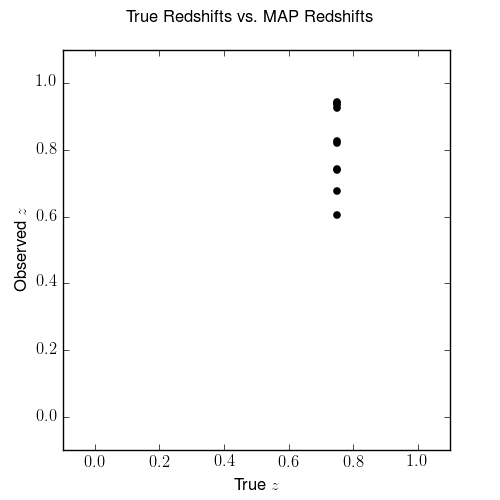
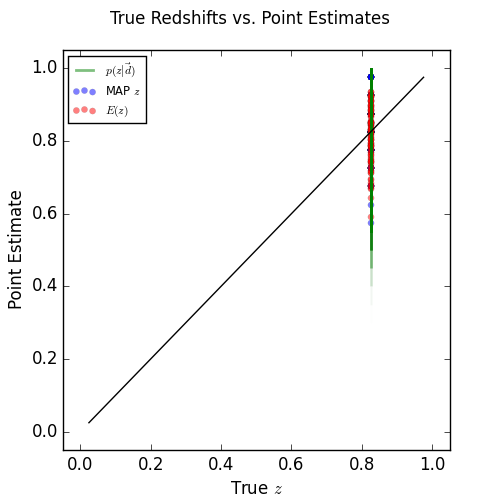
updated some figures

diff --git a/nz/paper/maindoc.tex b/nz/paper/maindoc.tex
@@ -257,7 +257,7 @@ p^{0}(z_{k'}) &=& \sum_{c=1}^{5}\bar{z}_{k'}C_{c}\int_{z_{k'}}^{z_{k'+1}} \mathc
 
 \begin{figure}
 \label{fig:physPz}
-\includegraphics[width=0.5\textwidth]{null/physPz.png}
+\includegraphics[width=0.5\textwidth]{physPz.png}
 \caption{The underlying $p(z)$ is a sum of Gaussians.  Here it is shown for the case of $K'=25$ bins from $z_{0}=0$ to $z_{K'}=1$}
 \end{figure}
 
@@ -425,7 +425,7 @@ It is desirable to compare the result of this method to what would have been obt
 \exp[\theta_{k}]\Delta_{k} &=& \sum_{j=1}^{J}\ p(B_{k}|\vec{d}_{j},\vec{\theta}^{0})
 \end{eqnarray}
 
-The second method, hereafter referred to as point estimation, converts the individual galaxy posteriors $p(B_{k}|\vec{d}_{j},\vec{\theta}^{0})$ into delta functions at the redshift bin of maximum posterior probability according to Eq. \ref{eq:map}, or at the redshift bin corresponding to the expected value of Eq. \ref{eq:expval}, before applying Eq. \ref{eq:stack}.  These two methods have been compared to one another by \citet{hil11} and \citet{ben12}.
+The second method, hereafter referred to as point estimation, converts the individual galaxy posteriors $p(B_{k}|\vec{d}_{j},\vec{\theta}^{0})$ into delta functions at the redshift bin of maximum a posteriori (MAP) probability according to Eq. \ref{eq:map}, or at the redshift bin corresponding to the expected value of Eq. \ref{eq:expval}, before applying Eq. \ref{eq:stack}.  These two methods have been compared to one another by \citet{hil11} and \citet{ben12}.
 
 \begin{eqnarray}
 \label{eq:map}
@@ -445,11 +445,11 @@ It is also valuable to verify that the posterior is maximized for the true $N(z)
 
 Beyond visual inspection of samples, we calculate summary statistics to quantitatively compare different estimators' appropriateness for the data.  Three goodness of fit measures of parameter samples $\vec{\theta}^{i}$  have been considered here.  
 
-The likelihood ratio may be calculated for a sample $\vec{\theta}^{i}$ as in Eq. \ref{eq:llr}.  Lower values of $A$ indicate a closer fit between the estimator and the true value; higher values of $A$ indicate dissonance between the true value and the estimator.  The log posterior probabilities of Sec. \ref{sec:probs} are used to obtain the log likelihoods via Eq. \ref{eq:logpost} and the sample values themselves are used to calculate the prior probability term according to Eq. \ref{eq:llr-how}.
+The likelihood ratio comparing the sampler to competing methods may be calculated for a sample $\vec{\theta}^{i}$ as in Eq. \ref{eq:llr}.  Values of $A$ greater than 0 indicate the sampler fits the data better than the competing method.  The log posterior probabilities of Sec. \ref{sec:probs} are used to obtain the log likelihoods via Eq. \ref{eq:logpost} and the sample values themselves are used to calculate the prior probability term according to Eq. \ref{eq:llr-how}.
 
 \begin{eqnarray}
 \label{eq:llr}
-A(\vec{\theta}^{i}) &=& -2\ln[\tilde{p}(\{\vec{d}_{j}\}_{J}|\tilde{\vec{\theta}})]+2\ln[\tilde{p}(\{\vec{d}_{j}\}_{J}|\vec{\theta}^{i})]
+A(\vec{\theta}^{i}) &=& -2\ln[\tilde{p}(\{\vec{d}_{j}\}_{J}|\vec{\theta}_{test})]+2\ln[\tilde{p}(\{\vec{d}_{j}\}_{J}|\vec{\theta}^{i})]
 \end{eqnarray}
 
 \begin{eqnarray}
@@ -472,7 +472,7 @@ The code was tested on several simulated datasets.  The fiducial experiment of S
 In order to simulate data in the realistic case, we select set a true, physically motivated redshift probability distribution $p^{0}(z|\vec{\theta})$, where $p(z|\vec{\theta})$ corresponds to $\exp[\vec{\theta}]$ for $J=1$.  The instance of $p^{0}(z)$ here is given by Eq. \ref{eq:truepz}, where the constant $C_{c}$ indicates the relative amplitude of the Gaussian component centered at $z_{c}$ with variance $\sigma_{c}^{2}$.  %The linear function is evaluated at the centers of the bins $\bar{z}_{k}=(z_{k+1}-z_{k})/2$ and is included to ensure that $\lim_{z\to0}N(z)=0$.  
 The construction of this probability density is illustrated in Fig. \ref{fig:physPz}. 
 
-The number of galaxies in the survey $J$ is taken as a random draw from a Poisson distribution centered at $J'=100$.  Taking $p^{0}(z_{k})$ as the probability that galaxy $j$ has a true redshift within bin $B_{k}$, we draw true redshift bins $\{B_{j}\}_{J}$ for all $J$ galaxies in the survey.  The resulting $J_{k}$ define the true value of the parameters $\vec{\tilde{\theta}}$ according to Eq. \ref{eq:sums}.   Fig. \ref{fig:realtrueNz} shows the true value of $N(z)$ for the fiducial case.
+As in Sec. \ref{sec:theta}, the number of galaxies in the survey $J$ is taken as a random draw from a Poisson distribution centered at $J'=100$.  Taking $p^{0}(z_{k})$ as the probability that galaxy $j$ has a true redshift within bin $B_{k}$, we draw true redshift bins $\{B_{j}\}_{J}$ for all $J$ galaxies in the survey.  The resulting $J_{k}$ define the true value of the parameters $\vec{\tilde{\theta}}$ according to Eq. \ref{eq:sums}.   Fig. \ref{fig:nulltrueNz} shows the true value of $N(z)$ for the fiducial case.
 
 \begin{eqnarray}
 \label{eq:sums}
@@ -481,11 +481,11 @@ The number of galaxies in the survey $J$ is taken as a random draw from a Poisso
 
 \begin{figure}
 \includegraphics[width=0.5\textwidth]{null/trueNz.png}
-\caption{The true value of $N(z)$ in the case of galaxies drawn from the probability distribution of Fig. \ref{fig:physpz}.}
-\label{fig:realtrueNz}
+\caption{The true value of $N(z)$ in the case of galaxies drawn from the probability distribution of Fig. \ref{fig:physPz}.}
+\label{fig:nulltrueNz}
 \end{figure}
 
-True redshifts $z^{0}_{j}$ are taken as draws from a uniform distribution within bin $B_{j}$.  The mean redshift of the Gaussian defining the individual posterior is plotted against the true redshift in Fig. \ref{fig:realcat}.  We test the realistic case with the same mock data generation procedure as in Sec. \ref{sec:fake}; samples of some zPDFs used are shown in Fig. \ref{fig:realpzs}.
+True redshifts $z^{0}_{j}$ are taken as draws from a uniform distribution within bin $B_{j}$.  The interim prior (discussed in Sec. \ref{sec:d}) used in the fiducial case is a flat $N(z)$ normalized to $J$ galaxies.  The expected and MAP values of redshift of the Gaussian defining the individual posterior, as well as the probability distributions themselves, are plotted against the true redshift in Fig. \ref{fig:realcat}.  The mock data generation procedure of Sec. \ref{sec:fake} is used in this test; samples of some zPDFs used are shown in Fig. \ref{fig:nullpzs}.
 
 \begin{figure}
 \includegraphics[width=0.5\textwidth]{null/truevmap.png}
@@ -496,7 +496,7 @@ True redshifts $z^{0}_{j}$ are taken as draws from a uniform distribution within
 \begin{figure}
 \includegraphics[width=0.5\textwidth]{null/samplepzs.png}
 \caption{Unimodal, noiseless zPDFs are used in this test.}
-\label{fig:realpzs}
+\label{fig:nullpzs}
 \end{figure}
 
 We choose an interim prior equal to a multivariate normal distribution with mean satisfying $\vec{\theta}'$ and covariance $\textul{\Sigma}$ given by Eq. \ref{eq:covmat}.  The mean chosen here is that of a flat distribution for the expected number of galaxies in the survey $J'$.  The constants $q$, $a$, and $e$ are small numbers chosen to permit draws from the distribution in question to reproduce shapes similar to that of the true parameters $\vec{\tilde{\theta}}$.  Samples from this prior are shown in Fig. \ref{fig:realprior}.  The calculation is initialized with $20$ walkers each with a value chosen from a Gaussian distribution around a sample of the prior.  The initial values of the walkers are shown in Fig. \ref{fig:realival}.
@@ -549,7 +549,9 @@ The sampler performs well according to the diagnostics discussed in Sec. \ref{se
 \subsection{Noisy zPDFs}
 \label{sec:noisy}
 
-In this test, we aim to simulate more realistic zPDFs by modifying the procedure of Sec. \ref{sec:d} to introduce imprecision that increases with true redshift.  Here, the zPDFs are still Gaussians but with variances $\delta'_{j}$ that are themselves drawn from a Gaussian of mean $\delta_{j}$ and variance $\delta_{j}^{2}$, transforming Eq. \ref{zshift-how} into Eq. \ref{eq:znoise-how} and Eq. \ref{eq:zspread} into Eq. \ref{eq:znoise}.  
+In this test, we aim to simulate more realistic zPDFs by modifying the procedure of Sec. \ref{sec:d} to introduce imprecision that increases with true redshift.  
+
+The true redshift distribution is identical to that of \ref{sec:null} (Fig. \ref{fig:nulltrueNz}), as is the method for assigning true redshifts to galaxies.  The zPDFs are still Gaussians but with variances $\delta'_{j}$ that are themselves drawn from a Gaussian of mean $\delta_{j}$ and variance $\delta_{j}^{2}$, transforming Eq. \ref{zshift-how} into Eq. \ref{eq:znoise-how} and Eq. \ref{eq:zspread} into Eq. \ref{eq:znoise}.  Fig. \ref{fig:noisycat} shows the MAP and expected values of redshift, as well as the zPDFs, as a function of the true redshifts.  Fig. \ref{fig:samplepzs} shows a few random zPDFs generated by this procedure.
 
 \begin{eqnarray}
 \label{eq:znoise-how}
@@ -561,13 +563,51 @@ In this test, we aim to simulate more realistic zPDFs by modifying the procedure
 p(z_{j}|z'_{j}) &=& \mathcal{N}(z'_{j},\delta'_{j})
 \end{eqnarray}
 
+\begin{figure}
+\includegraphics[width=0.5\textwidth]{sigma/truevmap.png}
+\caption{This plot shows the relationship between the true redshift shared by all galaxies in this survey and the redshift at which the posterior is maximized for each galaxy.}
+\label{fig:noisycat}
+\end{figure}
+
+\begin{figure}
+\includegraphics[width=0.5\textwidth]{sigma/samplepzs.png}
+\caption{Unimodal, noisy zPDFs are used in this test.  Noise is introduced in the form of variances that are Gaussian random variables rather than fixed values tied to the true redshift.}
+\label{fig:noisypzs}
+\end{figure}
+
+The sampler is initialized as in Sec. \ref{sec:null}.
+
+%\begin{figure}
+%\includegraphics[width=0.5\textwidth]{sigma/times.png}
+%\caption{The autocorrelation times are low, indicating fast convergence of the sampler over all parameters.}
+%\label{fig:noisyacor}
+%\end{figure}
+%
+%\begin{figure}
+%\includegraphics[width=0.5\textwidth]{sigma/fracs.png}
+%\caption{The acceptance fractions are reasonable and decrease after the burn-in period.}
+%\label{fig:noisyfrac}
+%\end{figure}
+%
+%\begin{figure}
+%\includegraphics[width=0.5\textwidth]{sigma/probs.png}
+%\caption{This plot shows the log probabilities of walkers as a function of iteration number for a number of iterations equal to twice the burn-in period.  One can see that the log posterior probabilities are much greater for the samples than for the alternative methods.}
+%\label{fig:noisyprob}
+%\end{figure}
+%
+%\begin{figure}
+%\includegraphics[width=0.5\textwidth]{sigma/samps.png}
+%\caption{The results of the simulation may be seen here.  The three statistics considered indicate a different ordering of performance of the estimators.}
+%\label{fig:noisyparam}
+%\end{figure}
+
 \clearpage
 \subsection{Multimodal zPDFs}
 \label{sec:multi}
 
-In this test, we aim to simulate more realistic zPDFs by modifying the procedure of Sec. \ref{sec:d} to introduce inaccuracy that causes catastrophic photo-z errors.  Here, the zPDFs are sums of Gaussians of the form of those tested in Sec. \ref{sec:noisy}.  
+In this test, we aim to simulate more realistic zPDFs by modifying the procedure of Sec. \ref{sec:d} to introduce inaccuracy that causes catastrophic photo-z errors.  Catastrophic photo-z errors arise from a degeneracy in the space of galaxy SEDs and redshifts, wherein a galaxy of one type at one redshift has photometry indistinguishable from a galaxy of another type at another redshift.  To simulate this case, multimodal zPDFs will be considered.
 
-Each galaxy is first assigned a number $R_{j}$ of Gaussian elements to be summed, chosen randomly from $1,\dots,K$ where $K$ is the dimensionality of $\vec{\theta}$.  The true redshift of each galaxy $z_{j}^{0}$ is transformed to $R_{j}$ shifted redshifts $z^{r_{j}}_{j}$ for $r_{j}=1,\dots,R_{j}$, transforming Eq. \ref{eq:zshift} into Eq. \ref{eq:zmany-each}.  The standard deviations of the Gaussian components follows Eq. \ref{eq:zmany-how}, analogous to Eq. \ref{eq:znoise-how}.  Thus the zPDFs take the form of Eq. \ref{eq:zmany}.
+The true $N(z)$ is generated the same way as in Sec. \ref{sec:null} (Fig. \ref{fig:nulltrueNz}).  However, the zPDFs are sums of Gaussians of the form of those tested in Sec. \ref{sec:noisy}.  Each galaxy is first assigned a number $R_{j}$ of Gaussian elements to be summed, chosen randomly from $1,\dots,K$ where $K$ is the dimensionality of $\vec{\theta}$.  The true redshift of each galaxy $z_{j}^{0}$ is transformed to $R_{j}$ shifted redshifts $z^{r_{j}}_{j}$ for $r_{j}=1,\dots,R_{j}$, transforming Eq. \ref{eq:zshift} into Eq. \ref{eq:zmany-each}.  The standard deviations of the Gaussian components follows Eq. \ref{eq:zmany-how}, analogous to Eq. \ref{eq:znoise-how}.  Thus the zPDFs take the form of Eq. \ref{eq:zmany}.  Fig. \ref{fig:multicat} shows the MAP and expected values of redshift as well as the zPDFs as a function of the true redshift.  Some examples of the multimodal zPDFs are shown in Fig. \ref{fig:multipzs}.
 
 \begin{eqnarray}
 \label{eq:zmany-each}
@@ -584,23 +624,51 @@ z^{r_{j}}_{j} &\sim& \mathcal{N}(z_{j}^{0},\delta_{j})
 p(z_{j}|\{z^{r_{j}}_{j}\}_{R_{j}}) &=& \sum_{r_{j}=0}^{R_{j}}\ \mathcal{N}(z^{r_{j}}_{j},\delta^{r_{j}}_{j})
 \end{eqnarray}
 
+\begin{figure}
+\includegraphics[width=0.5\textwidth]{multi/truevmap.png}
+\caption{This plot shows the relationship between the true redshift shared by all galaxies in this survey and the redshift at which the posterior is maximized for each galaxy.}
+\label{fig:multicat}
+\end{figure}
+
+\begin{figure}
+\includegraphics[width=0.5\textwidth]{multi/samplepzs.png}
+\caption{Multimodal, noisy zPDFs are used in this test.  Noise is introduced in the form of variances that are Gaussian random variables rather than fixed values tied to the true redshift.}
+\label{fig:multipzs}
+\end{figure}
+
+The sampler is initialized as in Sec. \ref{sec:null}.
+
 %\begin{figure}
-%%\includegraphics[width=0.5\textwidth]{truevmap-multi.png}
-%\caption{This plot shows the relationship between the true redshift shared by all galaxies in this survey and the redshift at which the posterior is maximized for each galaxy.}
-%\label{fig:multicat}
+%\includegraphics[width=0.5\textwidth]{multi/times.png}
+%\caption{The autocorrelation times are low, indicating fast convergence of the sampler over all parameters.}
+%\label{fig:multiacor}
 %\end{figure}
 %
 %\begin{figure}
-%%\includegraphics[width=0.5\textwidth]{samplepzs-multi.png}
-%\caption{Multimodal noiseless zPDFs are used in this test.}
-%\label{fig:multipzs}
+%\includegraphics[width=0.5\textwidth]{multi/fracs.png}
+%\caption{The acceptance fractions are reasonable and decrease after the burn-in period.}
+%\label{fig:multifrac}
+%\end{figure}
+%
+%\begin{figure}
+%\includegraphics[width=0.5\textwidth]{multi/probs.png}
+%\caption{This plot shows the log probabilities of walkers as a function of iteration number for a number of iterations equal to twice the burn-in period.  One can see that the log posterior probabilities are much greater for the samples than for the alternative methods.}
+%\label{fig:multiprob}
+%\end{figure}
+%
+%\begin{figure}
+%\includegraphics[width=0.5\textwidth]{multi/samps.png}
+%\caption{The results of the simulation may be seen here.  The three statistics considered indicate a different ordering of performance of the estimators.}
+%\label{fig:multiparam}
 %\end{figure}
 
 \clearpage
-\subsection{Toy Model}
+\subsection{Toy Model $N(z)$}
 \label{sec:fake}
 
-We test the sampler in a simplified case with a delta function for the underlying $N(z)$ in which all galaxies have the same true redshift, corresponding to an underlying hyperparameter $\vec{\theta}'$ given by Eq. \ref{eq:faketheta}.  Furthermore, for simplicity, we give all galaxies a single true redshift $z_{j}^{0}=\tilde{z}$ equal to the midpoint of bin $B_{\tilde{k}}$.  Ony unimodal, noiseless zPDF shapes are considered in this test, as shown in Fig. \ref{fig:toypzs}.  Fig. \ref{fig:toycat} shows the spread in maximum a posteriori values versus the true redshifts for this case.
+We test the sampler in a case of a highly unrealistic but strongly featured underlying $N(z)$.  This is done to show that the sampler works even in extreme conditions.
+
+Here we choose a delta function for the underlying $N(z)$ in which all galaxies have the same true redshift, corresponding to an underlying hyperparameter $\vec{\theta}'$ given by Eq. \ref{eq:faketheta}.  Furthermore, for simplicity, we give all galaxies a single true redshift $z_{j}^{0}=\tilde{z}$ equal to the midpoint of bin $B_{\tilde{k}}$ where $\tilde{k}$ denotes the bin in which $N(z)$ is nonzero.  Only unimodal, noiseless zPDF shapes are considered in this test, as shown in Fig. \ref{fig:toypzs}.  Fig. \ref{fig:toycat} shows the spread in maximum a posteriori values versus the true redshifts for this case.
 
 \begin{eqnarray}
 \label{eq:faketheta}
@@ -608,36 +676,36 @@ We test the sampler in a simplified case with a delta function for the underlyin
 \end{eqnarray}
 
 \begin{figure}
-\includegraphics[width=0.5\textwidth]{trueNz-toy.png}
+\includegraphics[width=0.5\textwidth]{toy/trueNz.png}
 \caption{The true value of $N(z)$ in the test case of all galaxies having the same redshift, compared with a flat $N(z)$ distribution.}
 \label{fig:deltatrueNz}
 \end{figure}
 
 \begin{figure}
-\includegraphics[width=0.5\textwidth]{samplepzs-toy.png}
+\includegraphics[width=0.5\textwidth]{toy/samplepzs.png}
 \caption{Unimodal, noiseless zPDFs are used in this test.}
 \label{fig:toypzs}
 \end{figure}
 
 \begin{figure}
-\includegraphics[width=0.5\textwidth]{truevmap-toy.png}
+\includegraphics[width=0.5\textwidth]{toy/truevmap.png}
 \caption{This plot shows the relationship between the true redshift shared by all galaxies in this survey and the mean redshift of the bin in which the posterior is maximized for each galaxy for each set of mock data tested.}
 \label{fig:toycat}
 \end{figure}
 
-We choose a prior distribution of a multivariate normal centered at a flat $\vec{\theta}^{0}$ with the identity as the covariance matrix $\textul{\Sigma}$.  The diagnostics discussed in Sec. \ref{sec:diag} are shown in Figs. \ref{fig:dumbestacor}, \ref{fig:dumbestfrac}, \ref{fig:dumbestprob}, and \ref{fig:dumbestparam}.  Examples of draws from this prior are shown in Fig. \ref{fig:fakeprior}.  We initialize $2*K'$ walkers with samples from a Gaussian ball around a single sample from the prior distribution.  The initial values of walkers is shown in Fig. \ref{fig:fakeival}.
+We initialize the sampler as in Sec. \ref{sec:null} with the same prior.
 
-\begin{figure}
-\includegraphics[width=0.5\textwidth]{priorsamps-toy.png}
-\caption{Examples of draws from the prior of the toy model.}
-\label{fig:fakeprior}
-\end{figure}
-
-\begin{figure}
-\includegraphics[width=0.5\textwidth]{initializations-toy.png}
-\caption{The initial values of the walkers are samples from a Gaussian ball around a sample from the prior.}
-\label{fig:fakeival}
-\end{figure}
+%\begin{figure}
+%\includegraphics[width=0.5\textwidth]{toy/priorsamps.png}
+%\caption{Examples of draws from the prior of the toy model.}
+%\label{fig:fakeprior}
+%\end{figure}
+%
+%\begin{figure}
+%\includegraphics[width=0.5\textwidth]{toy/initializations.png}
+%\caption{The initial values of the walkers are samples from a Gaussian ball around a sample from the prior.}
+%\label{fig:fakeival}
+%\end{figure}
 
 The diagnostics of Sec. \ref{sec:diag} are evaluated and plotted as Figs. \ref{fig:dumbestacor}, \ref{fig:dumbestfrac}, \ref{fig:dumbestprob}, and \ref{fig:dumbestparam} for this test and indicate good convergence and trustworthy samples that outperform the stacked estimator.
 
@@ -673,8 +741,12 @@ The diagnostics of Sec. \ref{sec:diag} are evaluated and plotted as Figs. \ref{f
 %\end{eqnarray}
 
 \clearpage
-\subsection{Inappropriate Priors}
-\label{sec:badprior}
+\subsection{Inappropriate Interim Prior}
+\label{sec:interim}
+
+In this case, we vary the interim prior used in the calculation of individual posteriors to show that an inappropriate choice makes a difference in the results.  Typically, zPDFs are made with an interim prior derived from $N(z)$ in a previous observational study.  Since most observational studies used for this purpose are spectroscopically confirmed and objects for which photo-zs are relied upon make up a population that cannot be spectroscopically confirmed, such an interim prior is rarely appropriate.  Some efforts have been made to modify an observationally informed interim prior so that it is more representative of the data set.  \citep{she11}  However, any interim prior of this kind imparts information into the zPDFs and thus the zPDFs.  Ideally, an uninformative interim prior would be used, although it may be complicated to compute from the covariances of the raw data.  In this test, we consider an obviously inappropriate interim prior and compare it to the flat interim prior used in previous tests.
+
+The true $N(z)$ and zPDFs are generated as in Sec. \ref{sec:null} (Fig. \ref{fig:nulltrueNz}), however, the nontrivial interim prior affects the zPDFs and initialization.  
 
 \clearpage
 \section{Discussion}
